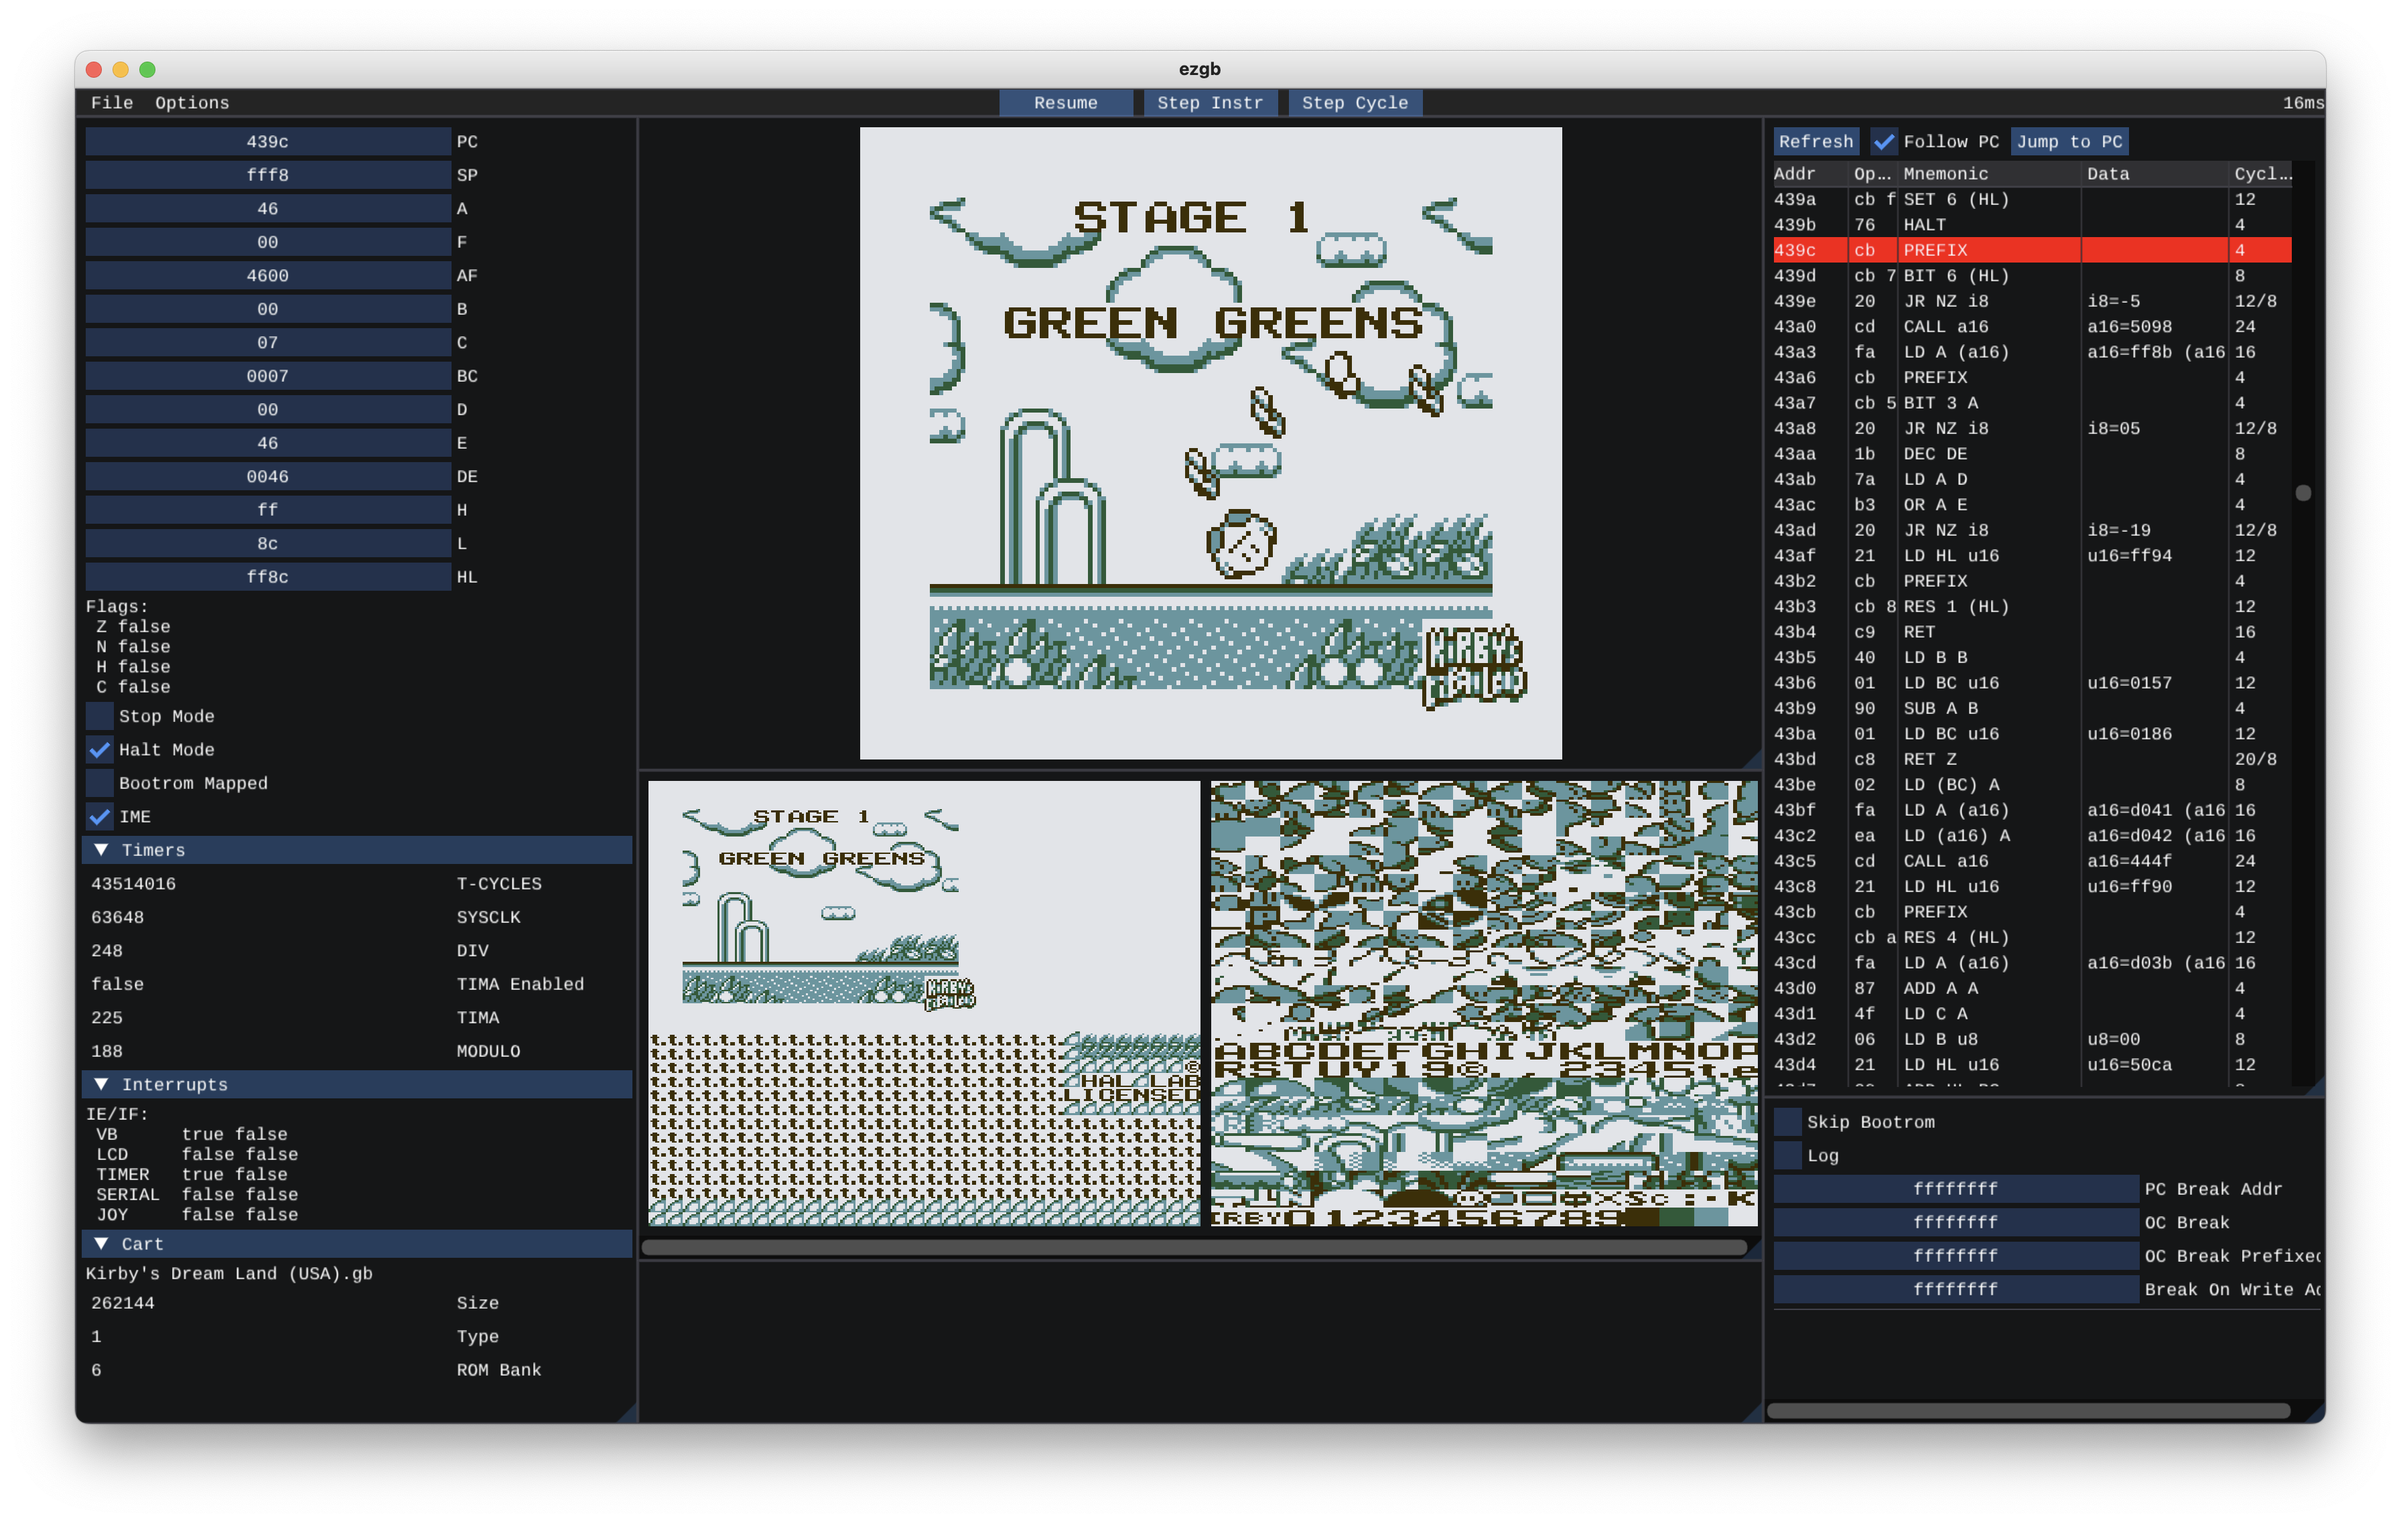
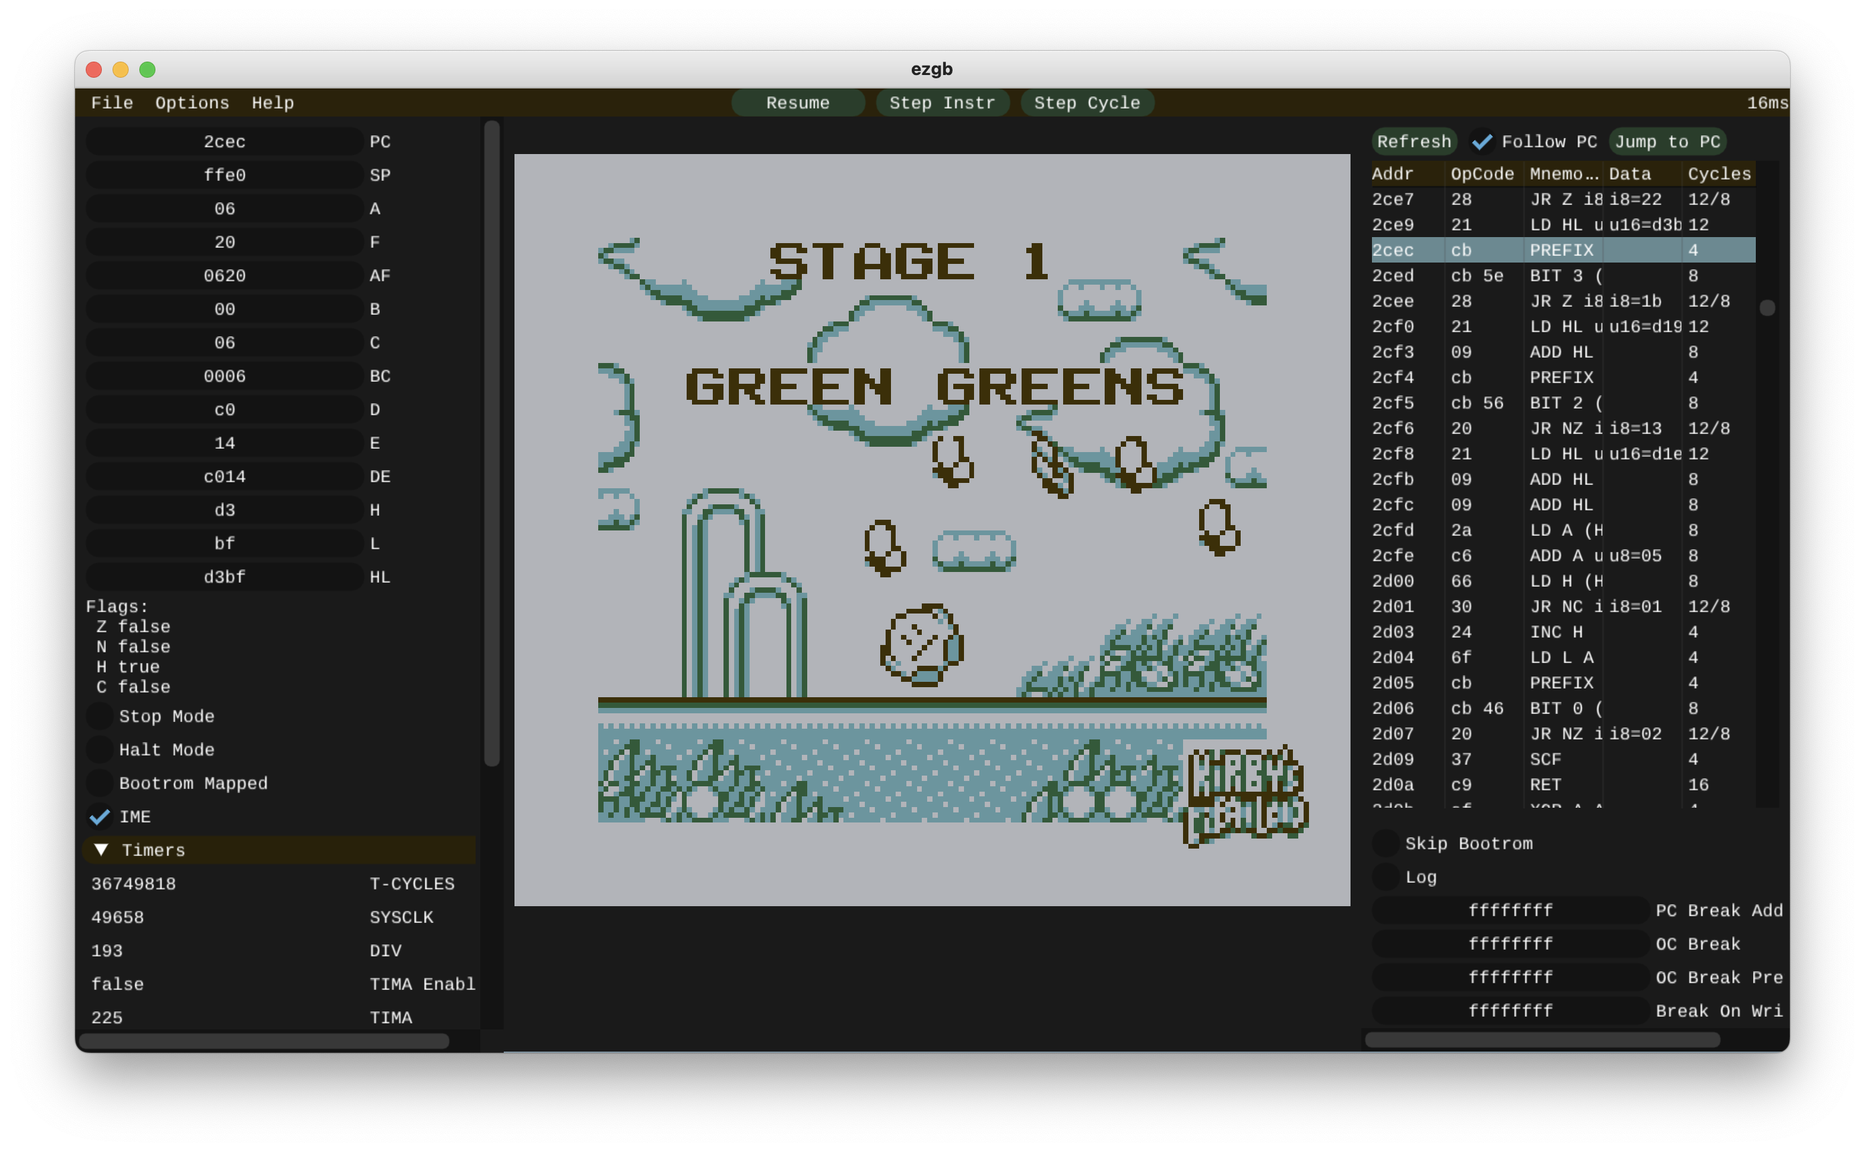
update readme and screenshot

diff --git a/readme.md b/readme.md
@@ -5,11 +5,15 @@
 
 This is a Gameboy emulator written from scratch in C++20. It's not super accurate but it is mostly feature complete 
 
+[Click here to try me in your browser!](https://zillinger.ca/ezgb_wasm)
+
 #### Features
 
 * Plays most simple commercial games - ROM Only and MBC1 cartridge types
+* Runs in the browser via WebAssembly
 * Audio
 * Debugger/Disassembler with breakpoints
+* PPU Vram Debug Display
 
 #### Things that can be improved
 
@@ -31,6 +35,7 @@ I tried to use as few 3rd party libraries as possible The only 3rd party librari
 ### Building
 
 * Requires CMake, a C++20 compiler, and SDL2
+* Tested on GCC, LLVM Clang, MSVC, and Emscripten
 * On Linux/MacOS install SDL2 with your package manager
 * You'll need to install GCC or LLVM Clang on MacOS - AppleClang doesn't have enough C++20 support
 * On Windows download an SDL2 release and set the path in the top level CmakeLists.txt
